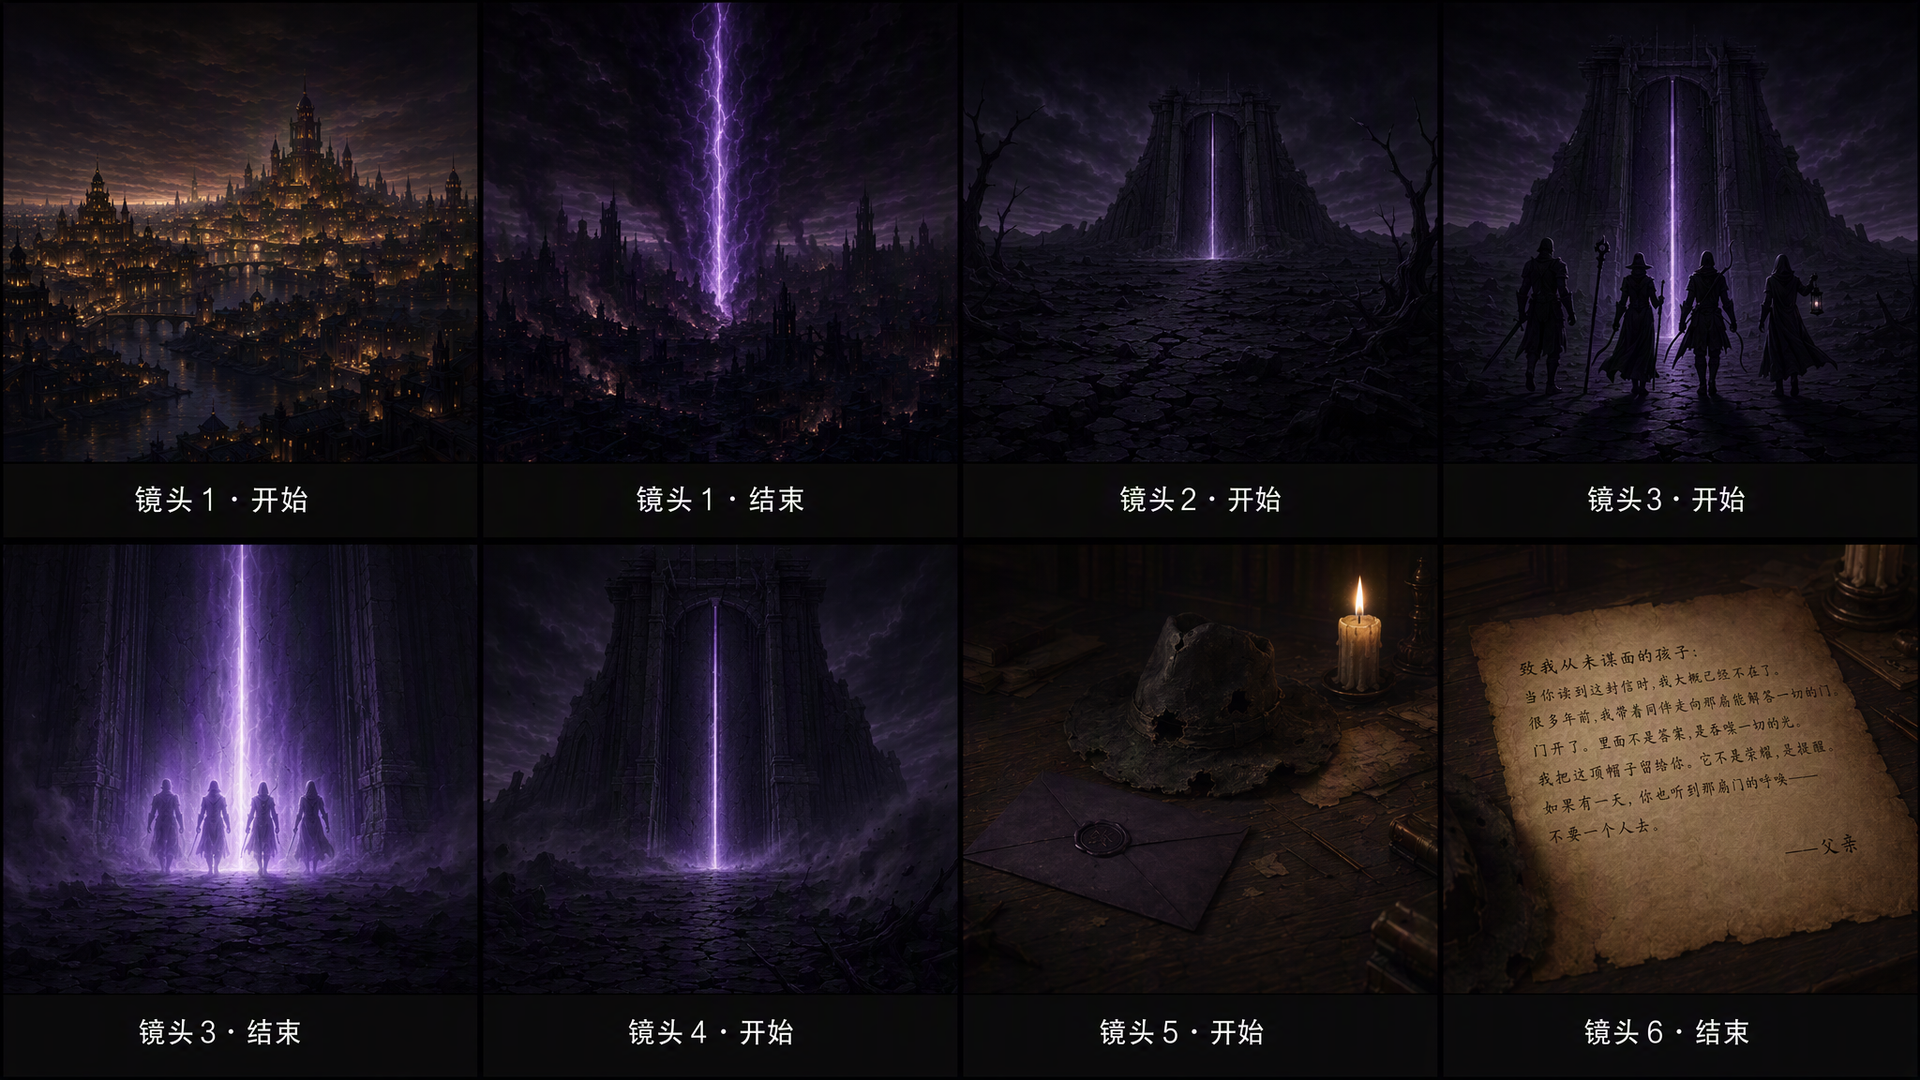
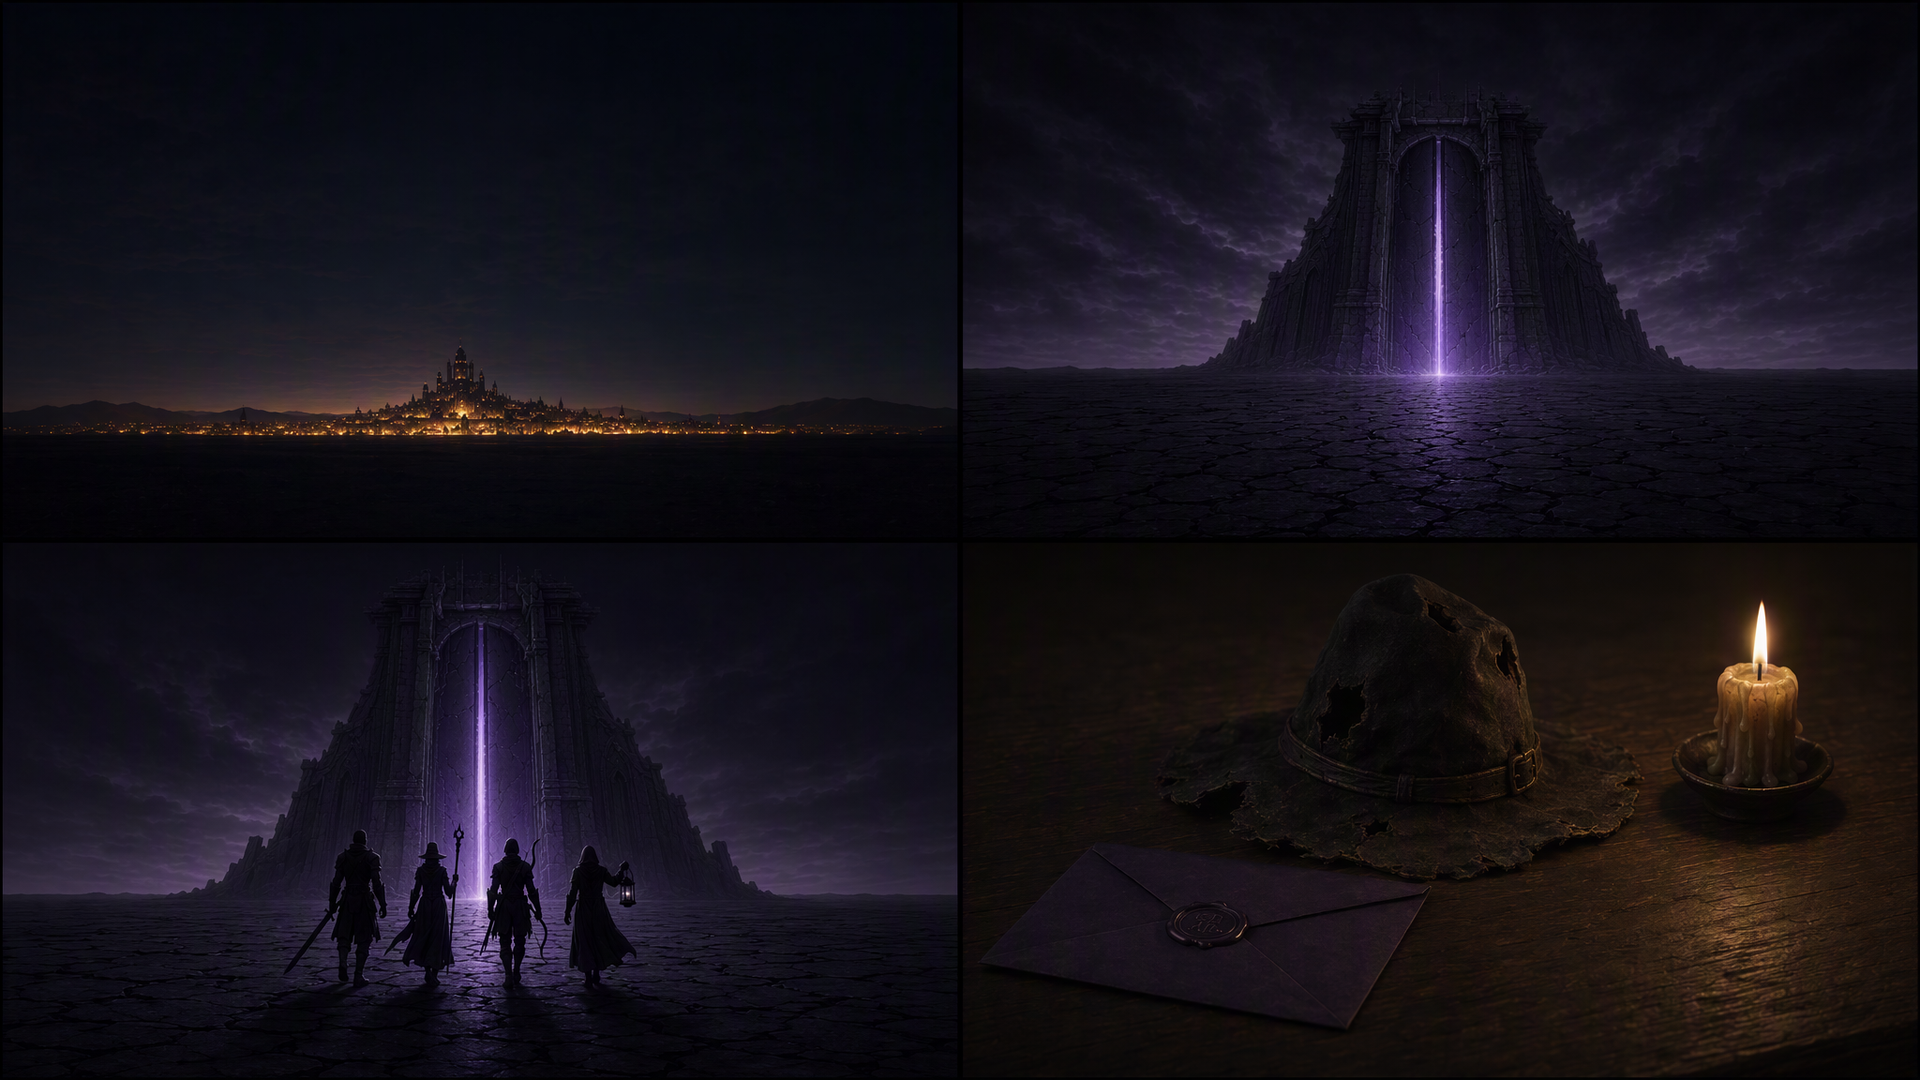
feat: 2x2 16:9 clean board + pillar match-cut transitions

diff --git a/gate-of-finality-intro/SCRIPT.md b/gate-of-finality-intro/SCRIPT.md
@@ -1,36 +1,35 @@
-# 《终焉之门》开场 30秒 v0.5
+# 《终焉之门》开场 30秒 v0.6
 
-6个镜头，不是16格。只画开始帧；动作关键才加结束帧。
-画幅16:9。无脸无Logo。结尾停在完整信。
-分镜：storyboard.png
+4个镜头。分镜是2x2，每格本身16:9，画面内无编号无标题栏。
+背景极简，大留白，单一主光。
 
-一句话：盛世被门撕开，四人走进去没有回来，只剩一顶烧帽和一封信。
+一句话：金城被光撕开，变成空门；四人走进去消失；只剩帽和一封信。
 
-## 镜头
+## 镜头与转场
 
-镜头1 0:00-0:06 城邦到天裂
-开始：金色灯火城邦。结束：紫光刺穿天空，灯火熄灭。
+镜头1 0:00-0:07 金城到天裂
+开始帧：地平线一座灯火城邦，大面积干净夜空。
+动作：缓推。0:05 城心金光突然竖成紫白光柱，灯火从中心向外熄灭。
+转场：光柱占满画面（whip-zoom into the pillar），硬切到镜头2同一根光柱。
 VO：很久以前，世界还是完整的。直到一扇门从尽头裂开。
 
-镜头2 0:06-0:10 荒原石门
-开始：黑棘荒原，废墟石门细紫光。无人。无结束帧。
+镜头2 0:07-0:13 空门
+开始帧：同一根光柱拉开，变成荒原正中的废墟石门。地面干净，天空干净。
+动作：沿光柱crash zoom向前冲，停在门缝。
+转场：冲进门缝白闪，切到镜头3，机位几乎相同。
 VO：土地枯死。人们说走进去就能看见答案。
 
-镜头3 0:10-0:16 四人进门
-开始：四剪影走向门。结束：走进光柱被吞。
-VO：于是有人带着同伴去了。门开了。
+镜头3 0:13-0:21 四人进门并消失
+开始帧：同一座门，四个黑影背对镜头走去。剑、杖、弓、灯。无脸。
+动作：四人走进光柱被吞。镜头继续冲进光。白闪后只剩空门，人没了。
+转场：空门光柱突然收成桌面上火漆的一点紫光（match cut 光点）。
+VO：于是有人带着同伴去了。门开了。里面不是答案。走进去的人，都没有回来。
 
-镜头4 0:16-0:20 空门
-开始：人消失，只剩空门。无结束帧。
-VO：里面不是答案。走进去的人，都没有回来。
-
-镜头5 0:20-0:24 遗物
-开始：书桌、烧帽、未拆信封、蜡烛。无结束帧。
-VO：他们只留下这个。
-
-镜头6 0:24-0:30 信
-结束：同一张纸上完整信文一篇。不要拆句。
-VO：一封信。写给从未谋面的孩子。
+镜头4 0:21-0:30 遗物到全信
+开始帧：干净木桌，只有烧帽、未拆信封、一支蜡烛。
+动作：信封自行展开成完整一篇信，不要拆蜡刀蒙太奇。收镜停在全信。
+不要切回大门，不要Logo。
+VO：他们只留下这个。一封信。写给从未谋面的孩子。
 
 ## 信文
 致我从未谋面的孩子。
@@ -41,10 +40,8 @@ VO：一封信。写给从未谋面的孩子。
 如果有一天，你也听到那扇门的呼唤——不要一个人去。
 ——父亲
 
-## 声音
-全程：激昂史诗管弦，鼓点铜管合唱，不要轻松BGM。
-旁白：苍老低沉男声，像从很远的年代传来。
-SFX：天裂轰鸣、门鸣、风、蜡火、纸页。镜头6把鼓点收一点，让人读信。
 
-## VIDEO_PROMPT.md 见同目录
-硬性：成片画面禁止出现任何编号、镜头号、水印、英文字幕烧录、游戏Logo。分镜表上的标题只给制作看，不能进视频。
+## 声音
+全程激昂史诗管弦，鼓点铜管合唱。旁白苍老。
+转场1到2：光柱轰鸣加铜管上扬。转场2到3：白闪加合唱。转场3到4：鼓点骤停成蜡火。
+成片画面禁止编号。

diff --git a/gate-of-finality-intro/VIDEO_PROMPT.md b/gate-of-finality-intro/VIDEO_PROMPT.md
@@ -1,19 +1,18 @@
-# 成片提示词 · 30秒 16:9
+# VIDEO PROMPT 30s 16:9
 
 HARD RULES:
-- Do NOT render any numbers, shot numbers, cell numbers, watermarks, logos, or burned-in captions on the picture.
-- Storyboard labels are production-only. They must never appear in the video frames.
-- 16:9, about 30 seconds, cinematic dark fantasy, purple-black and bone gold.
-- No faces. Silhouettes only. No game character portraits.
-- One continuous letter on the last shot, not one sentence per cut.
-- Music: epic aggressive orchestra the whole time, drums brass choir. Not calm ambient.
-- Voice: ancient old man, distant, weathered, speaking Chinese.
+- Do NOT render numbers, shot labels, watermarks, logos, or burned-in captions.
+- True 16:9 frames. Uncluttered background, large empty sky/ground, one primary light.
+- No faces. Silhouettes only. No extra props.
+- Music: epic aggressive orchestra the whole time. Voice: ancient old man, Chinese.
 
-SHOT LIST FOR GENERATOR:
+TRANSITIONS (must be spectacular, not fade):
+1->2 MATCH CUT the purple pillar: whip-zoom into city light until it fills the frame, cut to the same pillar as the gate slit, crash-zoom out to the empty waste.
+2->3 SMASH CUT through the slit: camera flies into the white-purple light, lands at the same gate with four silhouettes already walking.
+3->4 MATCH CUT the light speck: empty-gate pillar collapses into the wax seal glow on the desk. No dissolve.
 
-Shot1 0-6s: Start on a golden night city. End on the same city as a purple pillar rips the sky and lights die. Camera slow push.
-Shot2 6-10s: Start on cracked blackthorn waste, a ruined stone gate with a thin purple slit. Empty. Slow push toward the gate.
-Shot3 10-16s: Start behind four silhouettes walking to the gate with sword staff bow lantern. End as they enter the light and are swallowed. No faces.
-Shot4 16-20s: Start on the empty gate after they are gone. Wind and ash. Hold then slight pull back.
-Shot5 20-24s: Start on a ruined desk: burned hat, unopened purple-black letter, one candle. No wax-knife montage.
-Shot6 24-30s: End on one full parchment letter, all text in one page. Hold. Fade out. Do not cut back to the gate. Do not add a title card.
+SHOTS:
+0-7s city on a clean dark horizon, then the gold core becomes a vertical purple pillar and lights die outward.
+7-13s empty cracked plain, one stone gate, crash zoom along the slit.
+13-21s four silhouettes enter the light and vanish; hold the empty gate one beat.
+21-30s clean desk: burned hat, sealed letter, one candle. Letter unfolds into ONE full page of Chinese text. Hold. No title card.

diff --git a/gate-of-finality-intro/PRODUCTION.md b/gate-of-finality-intro/PRODUCTION.md
@@ -1,24 +1,8 @@
 # 制作文档 · gate-of-finality-intro
 
-## 状态
-- 剧本：完成 v0.5（6镜头，只保留开始帧/必要时结束帧）
-- 分镜：完成 storyboard.png（2x4 共8格，不是16格）
-- 成片提示词：VIDEO_PROMPT.md（硬性禁止画面出现编号）
-- 配音/BGM：要求全程激昂管弦 + 苍老旁白
-- 成片：已有旧版 output/intro_30s.mp4（按16格生成，左上角曾烧录分镜编号，已用ffmpeg delogo）
-- 接入游戏：未做
+状态：剧本v0.6完成；2x2分镜完成（每格16:9，干净背景）；成片提示词含光柱match cut；成片未按新分镜重做。
+旧成片output/intro_30s.mp4仍在，但是16格旧版。
 
-## 完成标准（下一版成片必须满足）
-1. 约30秒，16:9
-2. 按6个镜头，不要16格碎切
-3. 画面禁止任何编号、镜头号、水印、Logo
-4. 无五官特写，只许剪影
-5. 信文连成一篇，最后一镜收住
-6. 全程激昂史诗配乐 + 苍老旁白
-7. 文件仍放 output/intro_30s.mp4
+完成标准：30秒真16:9；4镜头；画面无编号；背景干净大留白；转场必须是光柱whip-zoom / smash cut / 火漆match cut，禁止淡入淡出；信连成一篇；激昂管弦+苍老旁白。
 
-## 旧成片问题
-模型把参考图格号烧进画面。所以 VIDEO_PROMPT.md 必须写：Do NOT render any numbers。分镜标题只给制作看，不能进视频。
-
-## 不要
-不要按格多次生图。不要一句一格写信。不要把分镜编号烧进成片。
+生成视频只读 VIDEO_PROMPT.md。禁止把分镜编号烧进画面。
